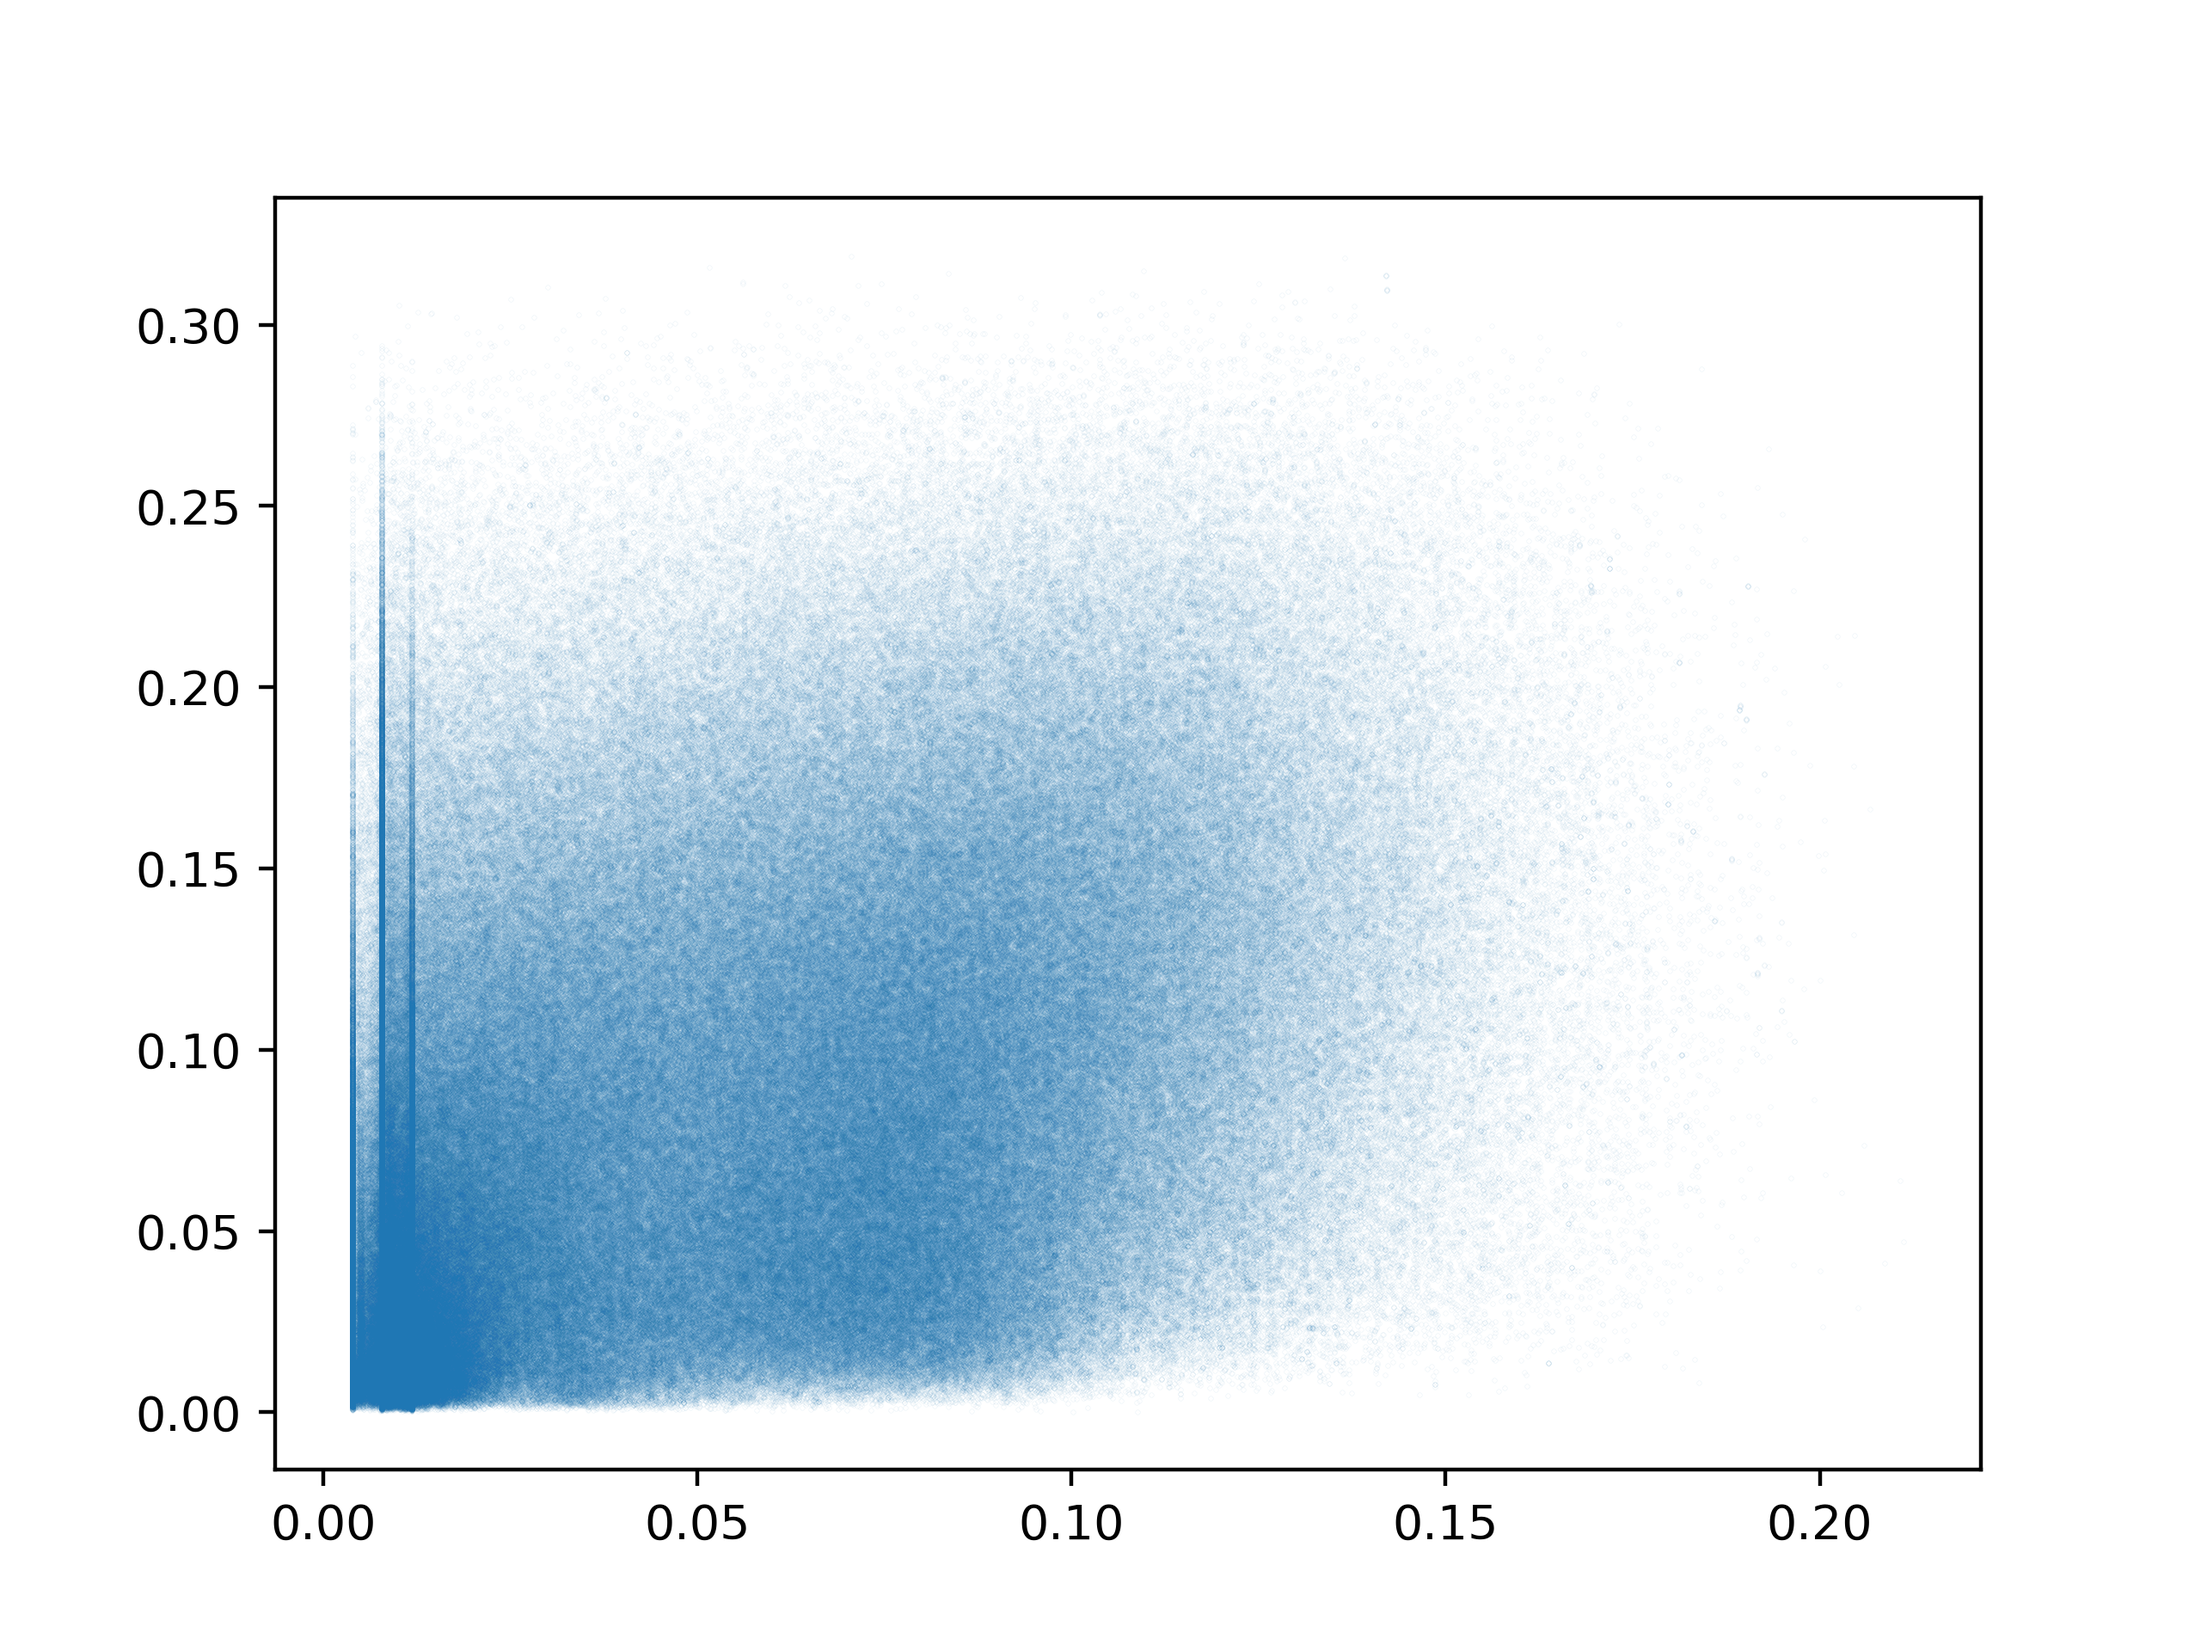
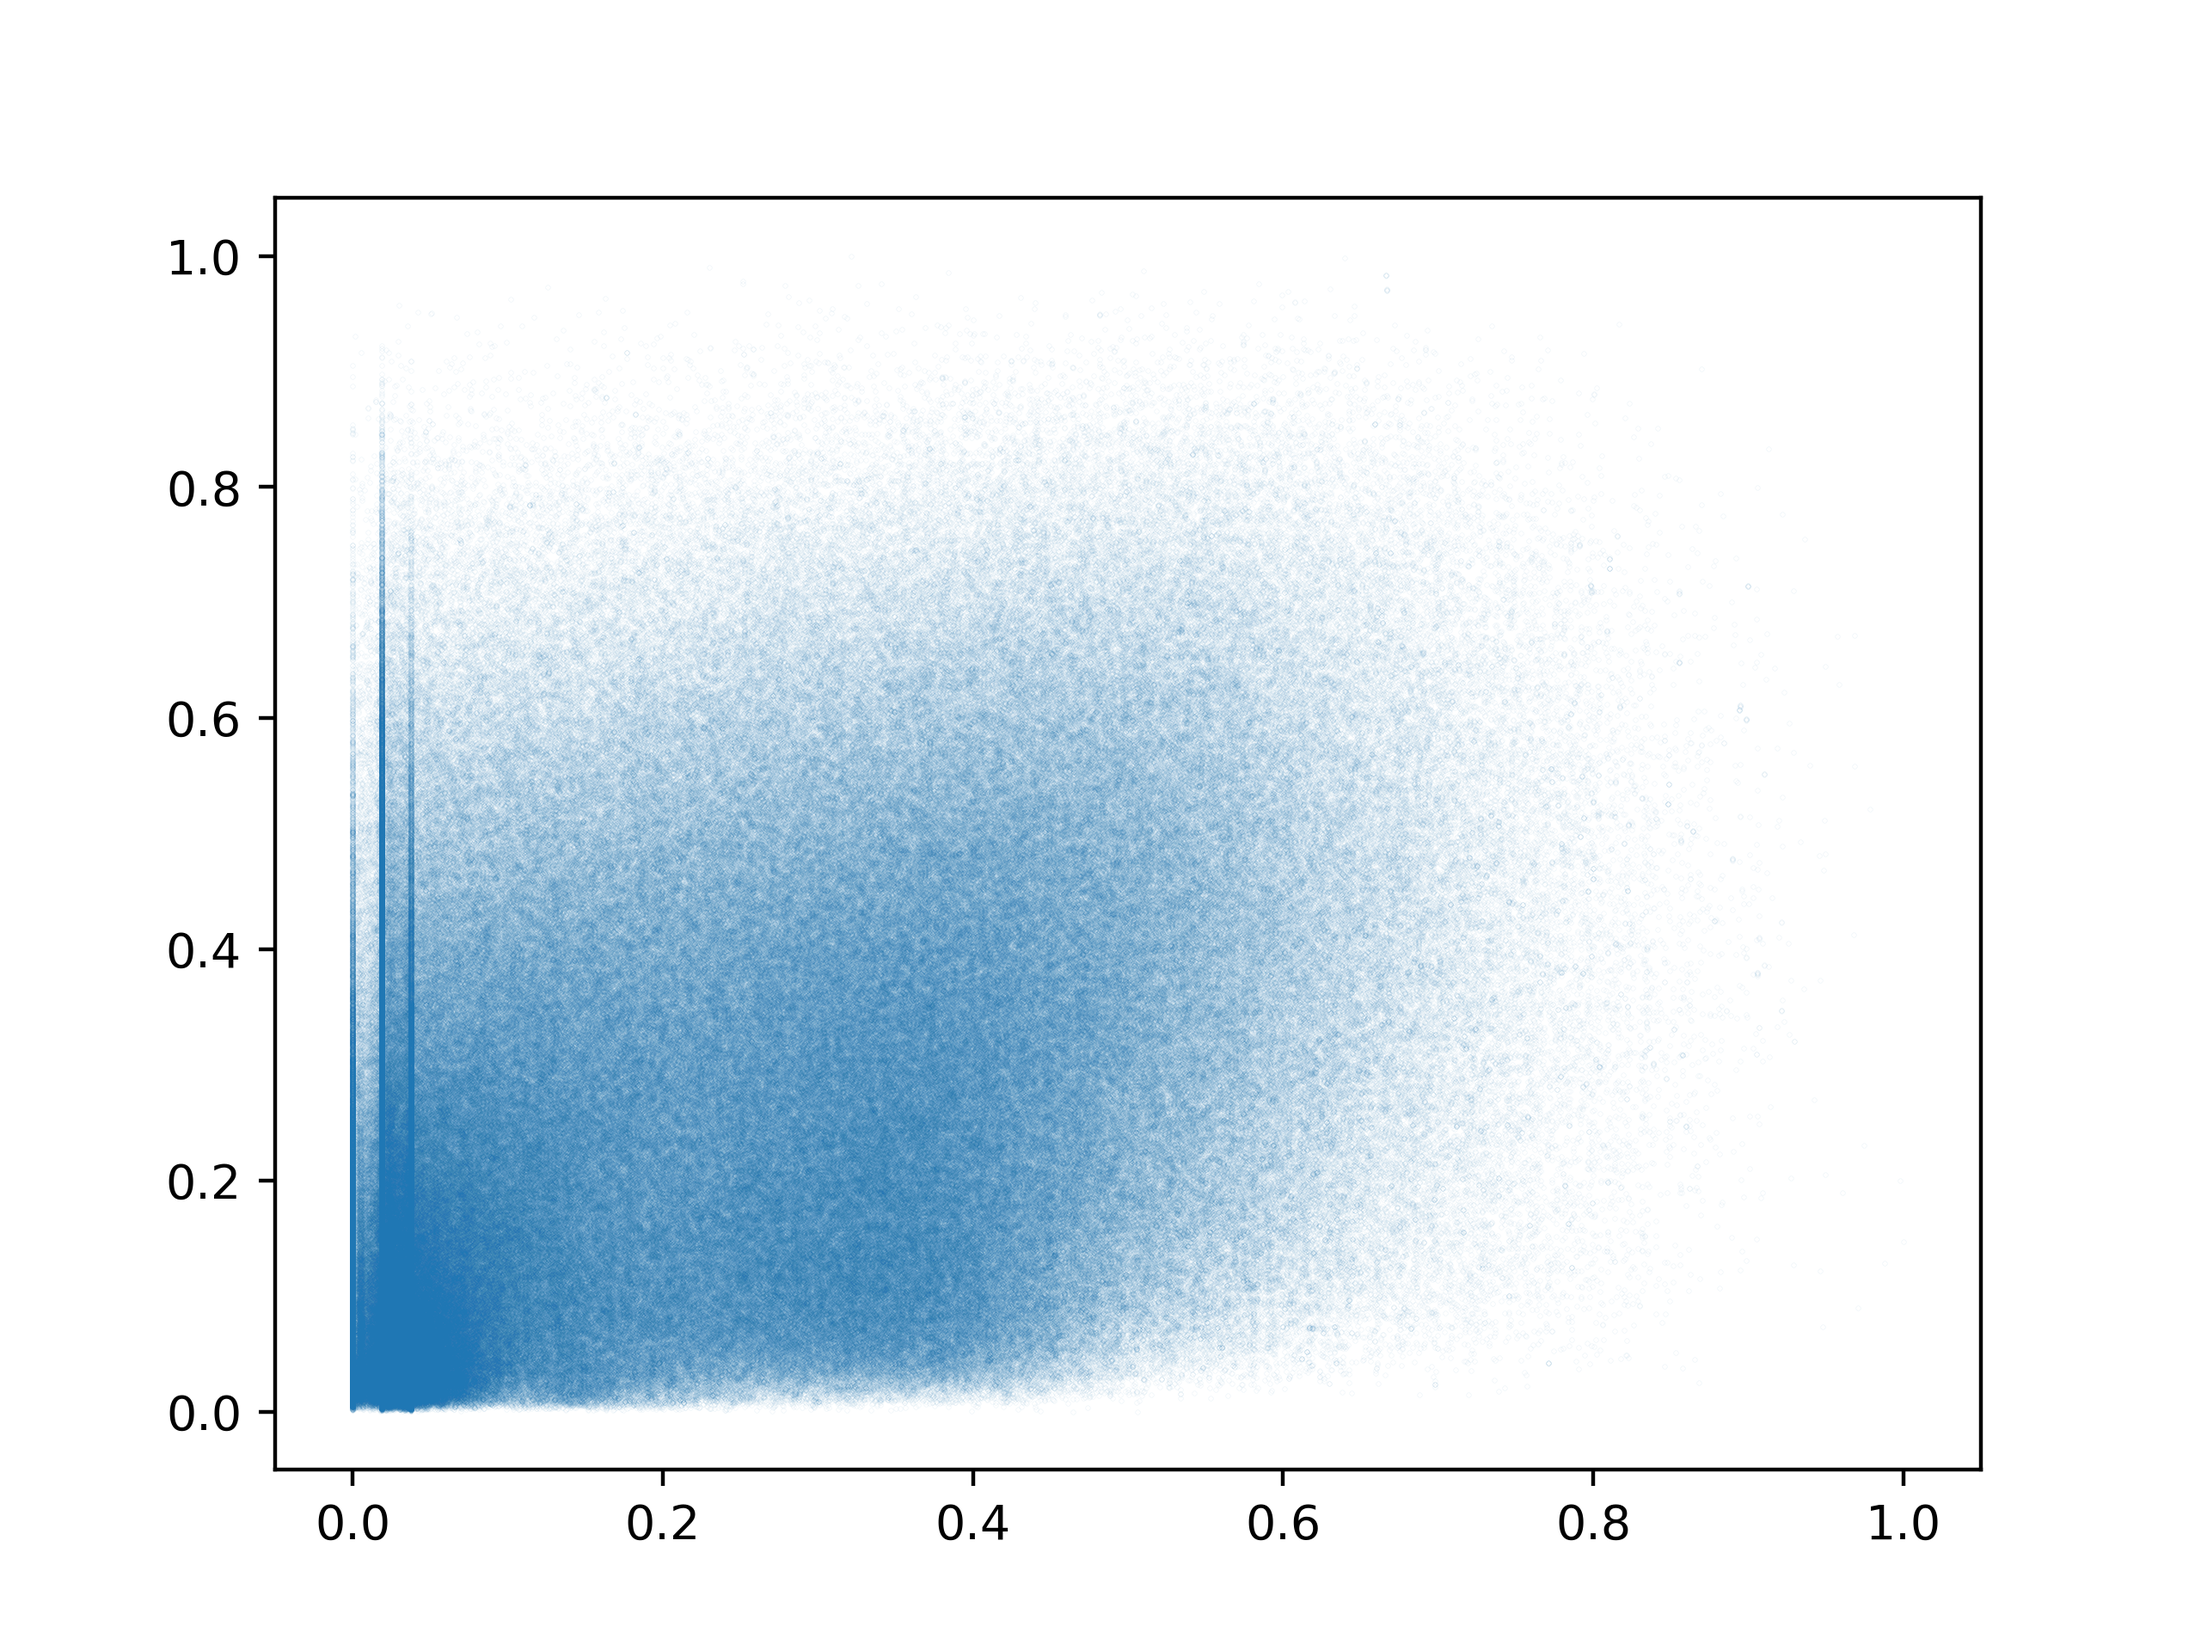
fixed error in ransac

diff --git a/src/plot.py b/src/plot.py
@@ -10,7 +10,7 @@ normalized_curvature_df=(curvature_data-curvature_data.min())/(curvature_data.ma
 
 
 fig1 = plt.figure(1)
-plt.scatter(intensity_data['values'], curvature_data['values'], s= 0.01**2)
+plt.scatter(normalized_intensity_df['values'], normalized_curvature_df['values'], s= 0.01**2, )
 fig1.savefig(path + "int_vs_curv.png", dpi=400)
 fig2 = plt.figure(2)
 plt.boxplot(intensity_data['values'], showmeans=True, meanline=True)
@@ -24,6 +24,8 @@ fig4.savefig(path + "norm_intensity_boxplot.png", dpi=fig4.dpi)
 fig5 = plt.figure(5)
 plt.boxplot(normalized_curvature_df['values'], showmeans=True, meanline=True)
 fig5.savefig(path + "norm_curvature_boxplot.png", dpi=fig5.dpi)
-
+fig6 = plt.figure(6)
+plt.hist2d(normalized_intensity_df['values'], normalized_curvature_df['values'], 100)
+fig6.savefig(path + "int_curvature_hist2d.png", dpi=fig6.dpi)
 
 

diff --git a/src/ransac_node.cpp b/src/ransac_node.cpp
@@ -281,7 +281,7 @@ void callback(const sensor_msgs::PointCloud2ConstPtr &cloud_ros)
                 {
                     ROS_ERROR("%s: error writing value %.9f.", __func__, cloud_normals->points[i].curvature);
                 }
-            
+            }
             if (cloud_normals->points[i].curvature < curvature_threshold)
             {
                 color.r = 1.0;
